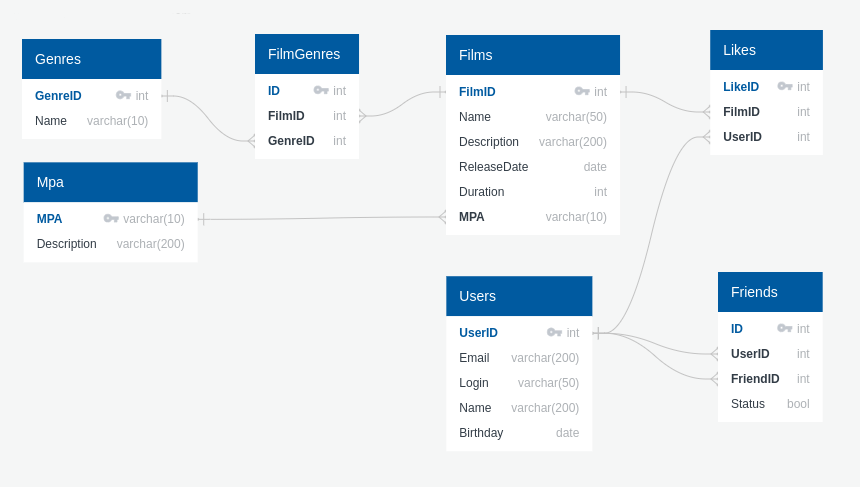
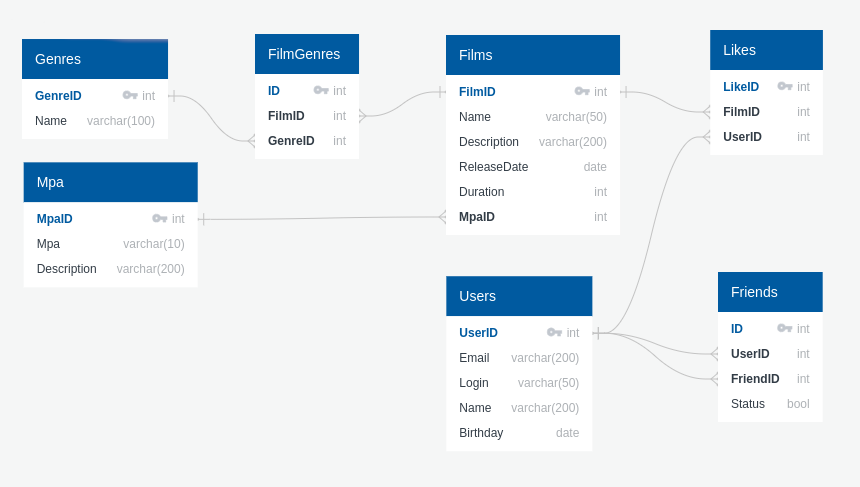
update project summary

diff --git a/README.md b/README.md
@@ -1,2 +1,30 @@
 # java-filmorate
+----------------------------------------------------------------------------------
 Template repository for Filmorate project.
+## Описание
+----------------------------------------------------------------------------------
+Бэкенд для сервиса, который будет работать с фильмами и оценками пользователей, а также возвращать топ-5 фильмов, рекомендованных к просмотру.
+
+## Схема данных
+----------------------------------------------------------------------------------
+![](src/main/resources/static/ERDiagram.png)
+
+## Зависимости
+----------------------------------------------------------------------------------
+* JDK Amazon Coretto version 11 - кроссплатформенный дистрибутив OpenJDK с долгосрочной поддержкой
+* Spring Boot 2.7.14 - модуль фреймворка Spring для создания приложений с использованием Java
+* Maven - инструмент для автоматической сборки проектов на Java
+* Lombok - основанная на аннотациях библиотека Java, позволяющая сократить шаблонный код
+* JDBC - API для взаимодействия с базами данных
+* H2 - кроссплатформенная СУБД
+## Описание коммитов
+----------------------------------------------------------------------------------
+| Название | Описание                                                            | 
+|----------|---------------------------------------------------------------------|
+| docs     | Обновление документации                                             |
+| feat     | Добавление нового функционала                                       | 
+| fix      | Исправление ошибок                                                  |
+| refactor | Правки кода без исправления ошибок или добавления нового функционала|
+| style    | Правки по codestyle (табы, отступы, точки, запятые и т.д.)          |
+| test     | Добавление тестов                                                   |
+----------------------------------------------------------------------------------
